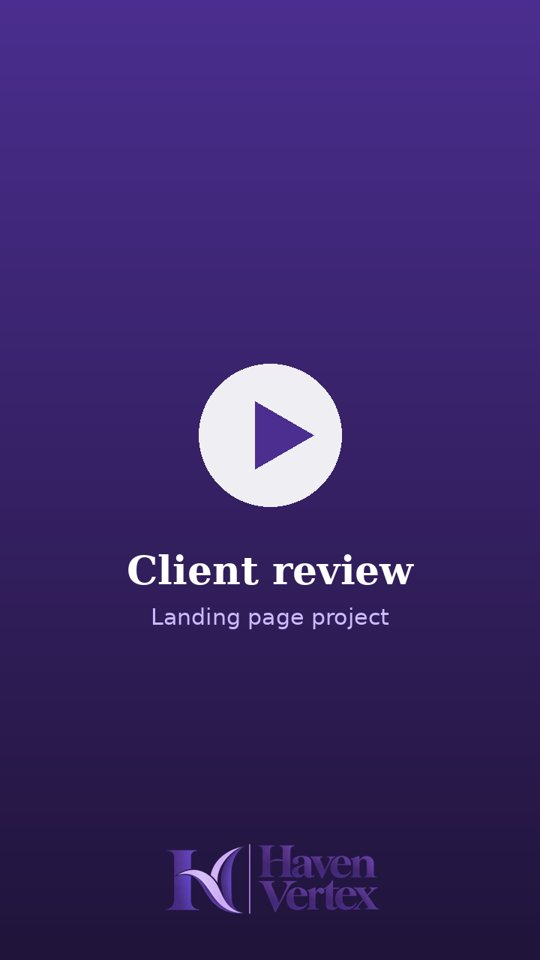
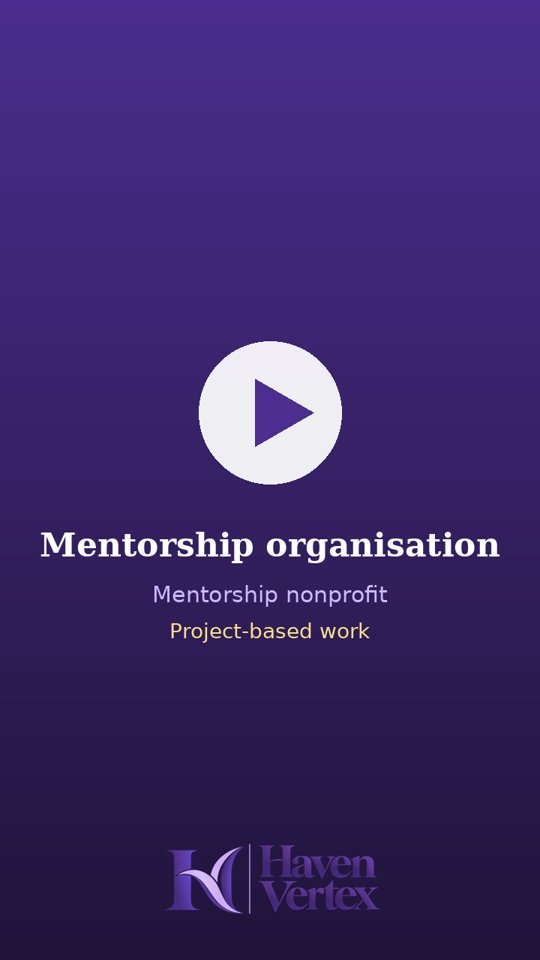
Same byline format for video reviews: role, then time worked together
Claude-Session: https://claude.ai/code/session_011yQcQqLyJoT4eTdLfiDGen

Changed region(s): [[0.0593, 0.5312, 0.9185, 0.6875], [0.3556, 0.3438, 0.6519, 0.5312]]

diff --git a/src/lib/sanity/defaultContent.ts b/src/lib/sanity/defaultContent.ts
@@ -171,19 +171,19 @@ export const defaultTestimonialsSection: TestimonialsSectionContent = {
     {
       type: "video",
       clientName: "Cherise M.",
-      company: "Client for 3 years",
+      company: "Business owner · 3 years",
       videoUrl: "/testimonials/client-1.mp4",
     },
     {
       type: "video",
       clientName: "Mentorship organisation",
-      company: "Landing page project",
+      company: "Mentorship nonprofit · Project-based work",
       videoUrl: "/testimonials/client-2.mp4",
     },
     {
       type: "video",
       clientName: "Raschell H.",
-      company: "Wellness speaker and author",
+      company: "Wellness speaker and author · 2 years",
       videoUrl: "/testimonials/client-4.mp4",
     },
     {
